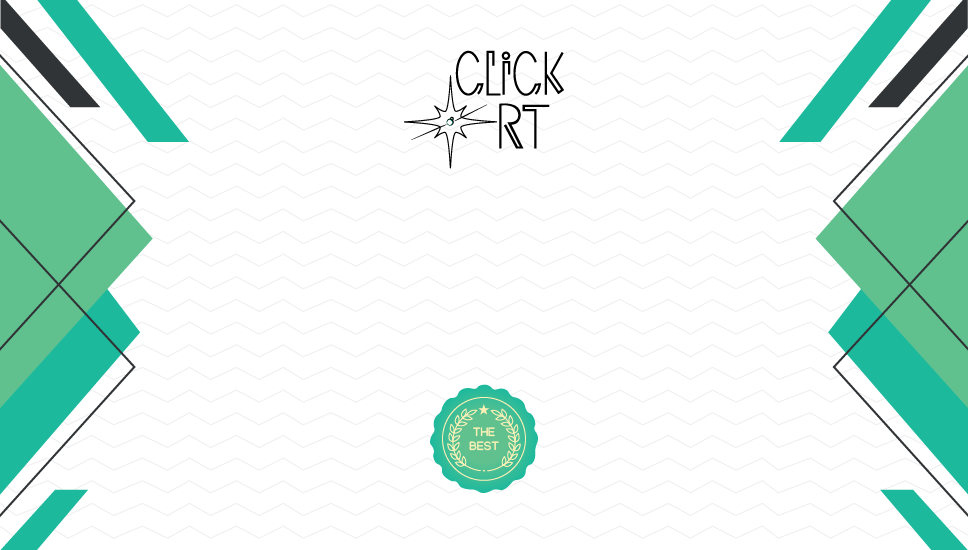
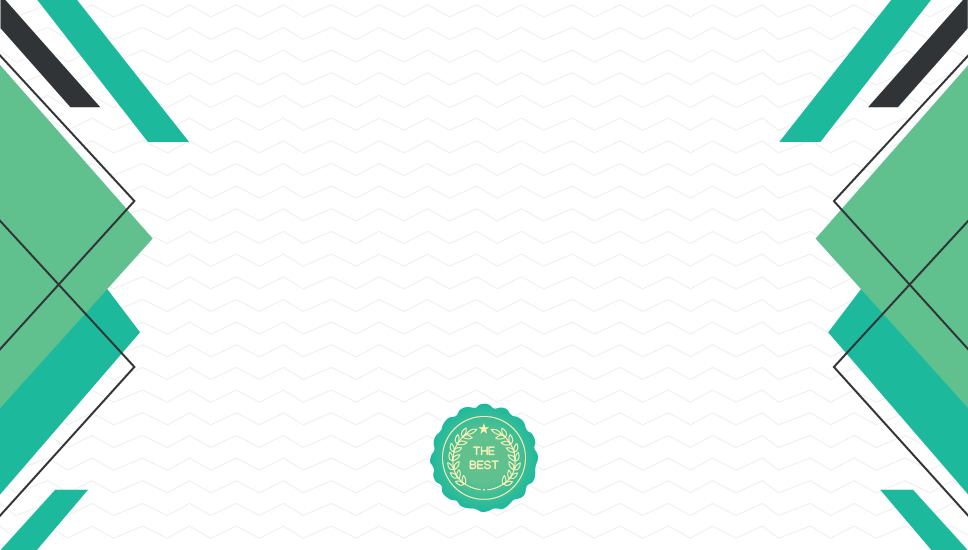
img certificado

Changed region(s): [[0.4339, 0.68, 0.5579, 0.9273], [0.4339, 0.0927, 0.5888, 0.2782]]

diff --git a/Pages/Certificado.html b/Pages/Certificado.html
@@ -49,13 +49,19 @@
             justify-content: center;
             align-items: center;
          }
+         .logo{
+            width: 50%;
+            margin-bottom: -44px;
+            margin-top: -20%;
+            margin-left: -3%;
+         }
     </style>
 </head>
 
 <body>
     <div class="container">
-
         <div class="certificate">
+            <img class="logo" src="../sources images/logo_Mesa de trabajo 1.svg" alt="">
             <h1>Diploma de graduación</h1>
             <p style="margin-top: 1%; margin-bottom: 2%;">Otorgado a</p>
             <h1>Nombre Del Alumno</h1>
